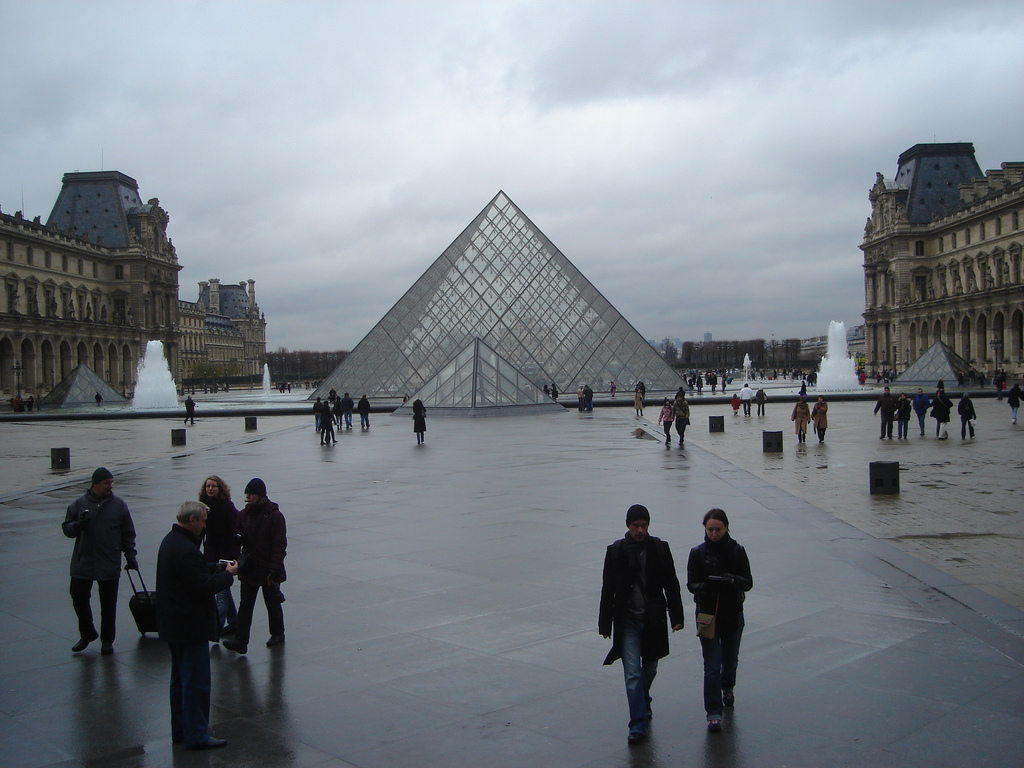
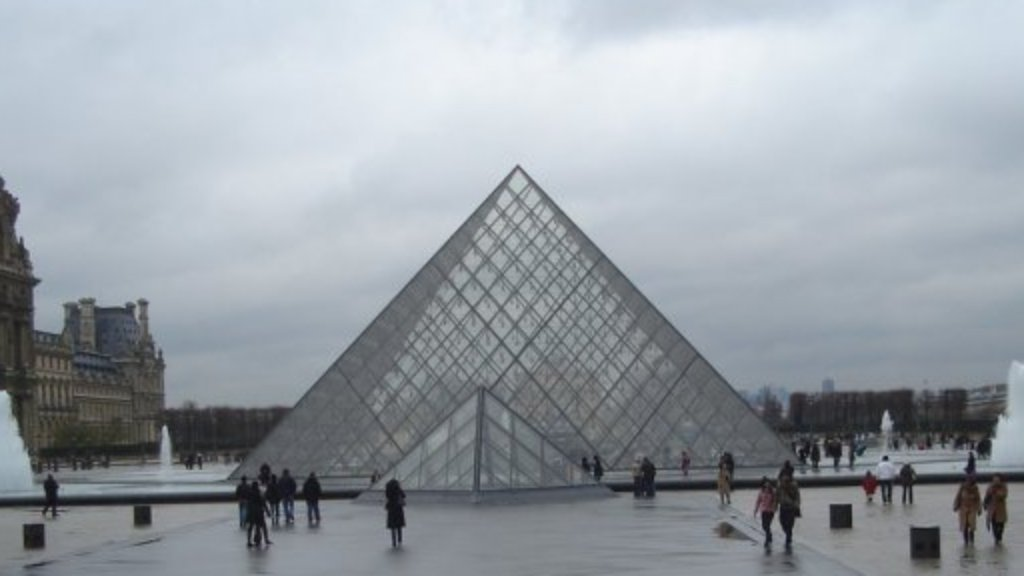
Finish temp slideshow work

diff --git a/scripts/portfolio.js b/scripts/portfolio.js
@@ -2,15 +2,43 @@ $(document).ready(function() {
 
   var projects = [
     {
-      project_image: "../imgs/test-image.png",
-      project_info: "A test image for the project"
+      project_name: "San Angelo",
+      project_image: 'castel-san-angelo.jpg',
+      project_info: "View of the Castel San Angelo",
+      project_link: "#"
     },
     {
-      project_image: "../imgs/test-image-2.png",
-      project_info: "A second test image for the project"
+      project_name: "Pyramide",
+      project_image: 'pyramide.jpg',
+      project_info: 'View of the Pyramide',
+      project_link: "#"
+    },
+    {
+      project_name: "Ducal Palace",
+      project_image: 'venice-ducal-palace.jpg',
+      project_info: 'Ducal Palace in Venice',
+      project_link: "#"
     }
   ];
 
-  document.getElementById("thumb-info").innerHTML = "Information regarding the project";
-  console.log("loading");
+  var index = 0;
+  var lastIndex = projects.length - 1;
+
+  function slideshow() {
+    document.getElementById("thumbnail").innerHTML = "<img src='../imgs/" + projects[index].project_image + "'>";
+    document.getElementById("thumb-info").innerHTML = projects[index].project_info;
+    console.log(document.getElementById("projectlist").children[index].children[0]);
+    document.getElementById("projectlist").children[index].children[0].className = "current";
+    document.getElementById("projectlist").children[lastIndex].children[0].className = "";
+    lastIndex = index;
+    if(index < projects.length - 1) {
+      index++;
+    } else {
+      index = 0;
+    }
+  }
+
+  slideshow();
+  setInterval(slideshow,3000);  
+  
 });

diff --git a/projects/index.html b/projects/index.html
@@ -38,21 +38,17 @@
 			<aside>
         <a href="index.html">Portfolio Index</a>
         <br>
-        Links to Blog Articles:
-        <ul>
-          <li id="test"><a href="#">Project</a></li>
-          <li><a href="#">Project</a></li>
-          <li><a href="#">Project</a></li>
-          <li><a href="#">Project</a></li>
-          <li><a href="#">Project</a></li>
-          <li><a href="#">Project</a></li>
-          <li><a href="#">Project</a></li>
+        Links to Projects:
+        <ul id="projectlist">
+          <li><a href="#">Castel SA</a></li>
+          <li><a href="#">Pyramide</a></li>
+          <li><a href="#">Ducal Palace</a></li>
         </ul>
         <a href="http://pdynowski.github.io">Back to main site</a>
       </aside>
       <article>
-       <figure id="thumbnail">Hey, look, there should be a thumbnail for the project in this space.</figure>
-       <div id="thumb-info">Information regarding the projects. </div>
+       <figure id="thumbnail"></figure>
+       <div id="thumb-info"></div>
      </article>
 		</main>
 	</body>

diff --git a/stylesheets/portfolio.css b/stylesheets/portfolio.css
@@ -15,10 +15,9 @@
   display: block;
 }
 
-#thumbnail:before {
-  content: "";
-  display: block;
-  padding-top: 60%;
+
+#thumbnail img {
+  width: 100%;
 }
 
 
@@ -29,4 +28,9 @@ main {
 
 main article {
   padding: 0em;
+}
+
+.current {
+  background-color: #ff0;
+  color: #000;
 }
